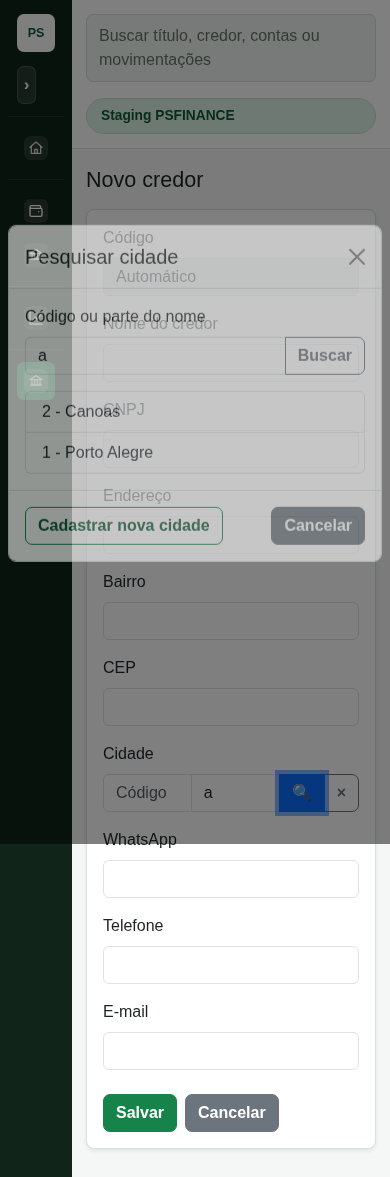
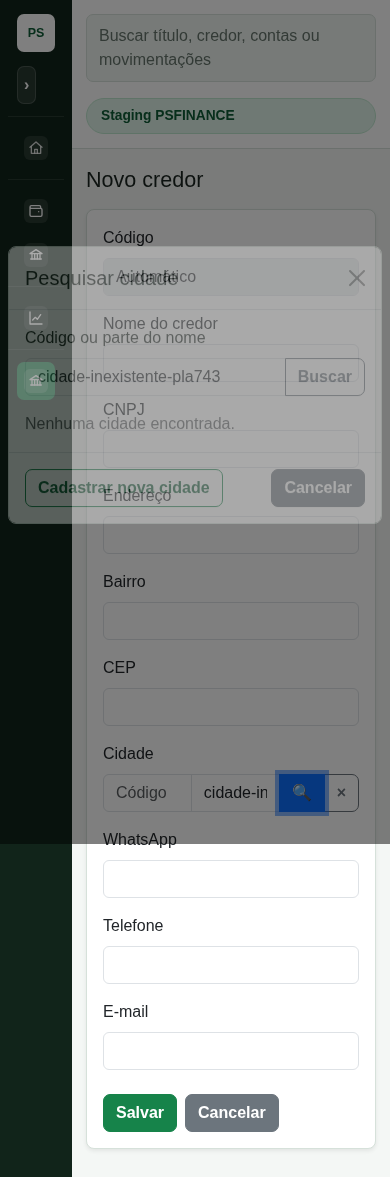
test(PLA-743): tornar evidência de cidade reproduzível

Changed region(s): [[0.0, 0.1835, 0.9846, 0.4894], [0.5538, 0.6729, 0.5846, 0.7035]]

diff --git a/scripts/pla743_capture_cidade_editavel.py b/scripts/pla743_capture_cidade_editavel.py
@@ -10,26 +10,31 @@ OUTPUT_DIR = Path("docs/evidencias/PLA-743-credor-cidade")
 
 def validar(page, viewport_name):
     page.goto(f"{BASE_URL}/financeiro/credores/novo", wait_until="networkidle")
+    cidades = page.evaluate("async url => (await (await fetch(url)).json()).cidades", f"{BASE_URL}/financeiro/cidades/busca?q=")
+    if not cidades:
+        raise AssertionError("A validação precisa de ao menos uma cidade ativa.")
+    cidade = cidades[0]
 
-    page.locator("#cidade_codigo").fill("1")
+    page.locator("#cidade_codigo").fill(str(cidade["id"]))
     page.locator("#cidade_codigo").press("Tab")
-    page.wait_for_function("document.querySelector('#id_cidade').value === '1'")
-    assert page.locator("#cidade_nome").input_value() == "Porto Alegre"
+    page.wait_for_function("value => document.querySelector('#id_cidade').value === String(value)", arg=cidade["id"])
+    assert page.locator("#cidade_nome").input_value() == cidade["nome"]
 
-    page.locator("#cidade_nome").fill("can")
+    page.locator("#cidade_nome").fill(cidade["nome"])
     page.locator("#cidade_nome").press("Tab")
-    page.wait_for_function("document.querySelector('#cidade_nome').value === 'Canoas'")
-    assert page.locator("#cidade_codigo").input_value() == "2"
+    page.wait_for_function("value => document.querySelector('#cidade_nome').value === value", arg=cidade["nome"])
+    assert page.locator("#cidade_codigo").input_value() == str(cidade["id"])
 
     page.locator("#limpar_cidade").click()
     assert page.locator("#id_cidade").input_value() == ""
     assert page.locator("#cidade_codigo").input_value() == ""
     assert page.locator("#cidade_nome").input_value() == ""
 
-    page.locator("#cidade_nome").fill("a")
+    page.locator("#cidade_nome").fill("cidade-inexistente-pla743")
     page.locator("#cidade_nome").press("Tab")
     page.locator("#modal_busca_cidade.show").wait_for()
-    assert page.locator("#resultado_busca_cidade button").count() == 2
+    assert page.locator("#resultado_busca_cidade button").count() == 0
+    assert page.locator("#mensagem_busca_cidade").inner_text() == "Nenhuma cidade encontrada."
     page.screenshot(path=OUTPUT_DIR / f"cidade-editavel-{viewport_name}.png", full_page=True)
 
 
@@ -40,7 +45,7 @@ def main():
         for name, viewport in (("desktop", {"width": 1440, "height": 1000}), ("mobile", {"width": 390, "height": 844})):
             page = browser.new_page(viewport=viewport)
             validar(page, name)
-            print(f"{name}: código, nome, troca, limpeza e múltiplos validados")
+            print(f"{name}: código, nome, troca, limpeza e busca sem resultado validados")
             page.close()
         browser.close()
 
